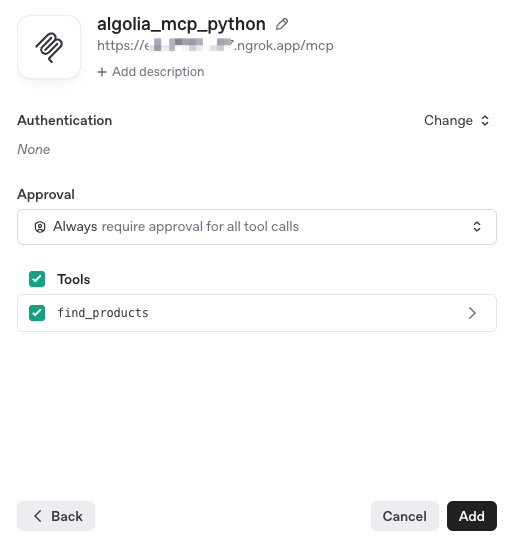
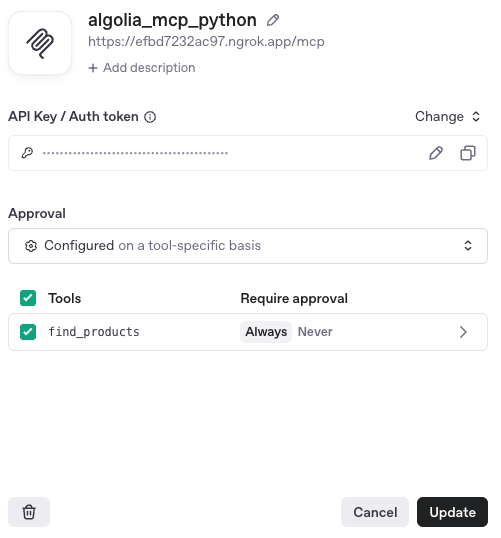
authentication with APP_ID and API_KEY

diff --git a/server.py b/server.py
@@ -4,6 +4,7 @@ from algoliasearch.search.models import Hit
 from pydantic import Field
 from dotenv import load_dotenv
 import os
+from fastmcp.server.dependencies import get_http_headers
 
 # Global variables to hold Algolia configuration: TODO: consider using MCP context variables or a config file
 ALGOLIA_APPLICATION_ID = None
@@ -24,13 +25,20 @@ async def algolia_search(
     # Parameters for system prompt
     hits_per_page: int = Field(default=3, description="#products per page, Only configurable using system parameters"),
     attributes_to_retrieve: str = Field(default="*", description="Only configurable using system parameters"),
-    algolia_app_id: str = Field(default=None, description="Algolia Application ID, only configurable using system parameters"),
-    algolia_api_key: str = Field(default=None, description="Algolia API Key, only configurable using system parameters"),
     algolia_index_name: str = Field(default=None, description="Algolia Index Name, only configurable using system parameters"),
 ) -> list[Hit] | str:
     """Return hits from Algolia search."""
+    headers = get_http_headers(include_all=True)
+    # print("headers= ", headers)
+    authorization = headers.get("authorization")
+    authorization_split = authorization.replace("Bearer ", "").split(":")
+    algolia_app_id = authorization_split[0]
+    algolia_api_key = authorization_split[1]
+    # print(f"authorization split= ", authorization_split)
+    # TODO: Store the client context as a memory map for each client session
     global ALGOLIA_APPLICATION_ID, ALGOLIA_API_KEY, ALGOLIA_INDEX_NAME, client
-    if (not ALGOLIA_APPLICATION_ID or not ALGOLIA_API_KEY):
+    if (not ALGOLIA_APPLICATION_ID or not ALGOLIA_API_KEY or 
+        ALGOLIA_APPLICATION_ID!= algolia_app_id or ALGOLIA_API_KEY!=algolia_api_key):
         ALGOLIA_APPLICATION_ID = algolia_app_id
         ALGOLIA_API_KEY = algolia_api_key
         client = SearchClientSync(ALGOLIA_APPLICATION_ID, ALGOLIA_API_KEY)

diff --git a/README.md b/README.md
@@ -63,7 +63,9 @@ It will give you the HTTPS address to allow ChatGPT to connect to your local mac
 
   Nb: it could be anything
 
-- Authentication: **None**
+- Authentication: **API Key / Auth token**
+
+eg. Use your `APP_ID:API_KEY` like `SPLFJWX0K4:your_api_key`
 
 ![Config](images/connect.png)
 
@@ -76,17 +78,28 @@ It will give you the HTTPS address to allow ChatGPT to connect to your local mac
 
 ```
 You are a shopping assistant.
-For the tool "find_products", use parameters:
-# algolia_app_id=SPLFJWX0K4
-# algolia_api_key=accaba2415019424b77bb418dba08513
-# algolia_index_name=fragrance_skin_fr_fr
-# hits_per_page=3
-# attributes_to_retrieve=skuNameFull, skuCode, idProduct, retailPrice, variantImages.0
 
-In addition, Algolia filters attributes are the following:
-## price => retailPrice (type is integer)
-gender => for man: gender:Homme | for woman: gender:Femme
-## capacity of the product => size (type is integer)
+# MCP usage for tool: **find_products**
+## System Parameters:
+- algolia_index_name=fragrance_skin_fr_fr
+- hits_per_page=3
+- attributes_to_retrieve=skuNameFull, retailPrice, image, skuCode, idProduct
+
+ ## Algolia filters attributes are the following:
+- price => retailPrice (type is integer)
+- gender => for man: gender:Homme | for woman: gender:Femme
+- capacity of the product => size (type is integer)
+
+## Attributes from the result array:
+- **skuNameFull**: name of the product
+- **retailPrice**: regular price of the product
+- **image**: image URL
+
+Display the results using attribute **skuNameFull** following withe attributes as nested bullet points:
+- Price
+- Capacity
+- image as raw URL
+These attributes are from the MCP Tool only
 
 If the answer is an empty array or a string, say something "Oops, no products found"
 ```
